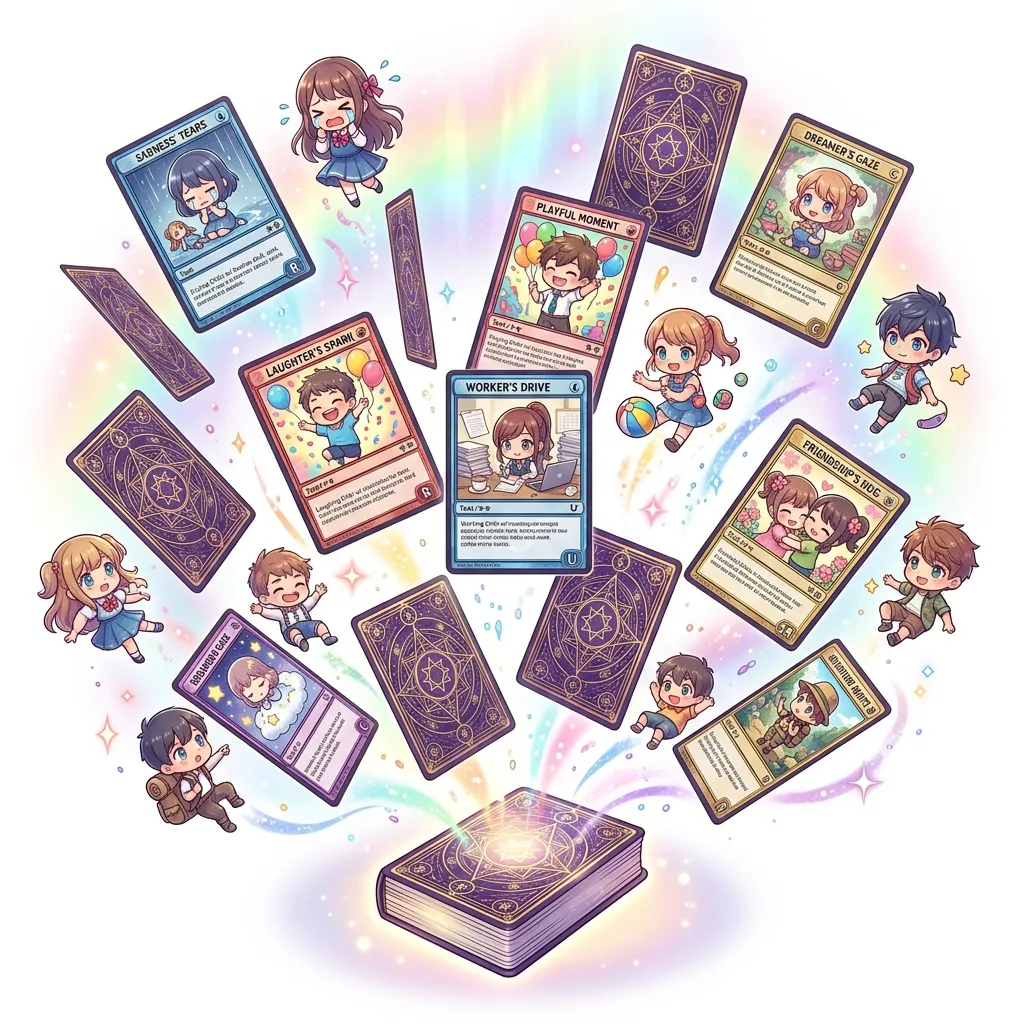
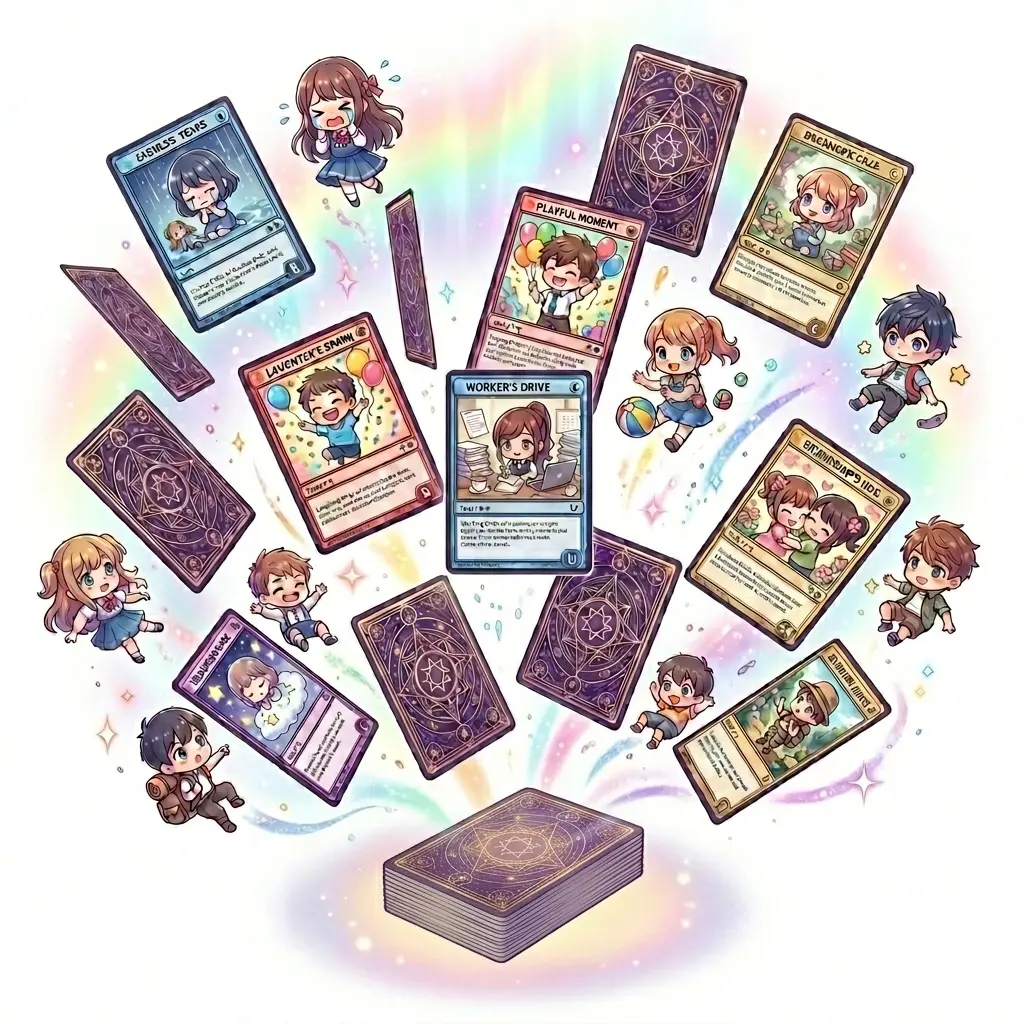
드로더라이프 이미지 교체

Changed region(s): [[0.0312, 0.0312, 0.9688, 0.9688], [0.2812, 0.0625, 0.4062, 0.1875]]

diff --git a/index.html b/index.html
@@ -15,7 +15,7 @@
     <meta property="og:url" content="https://eastfever.com">
     <meta property="og:title" content="EastFever">
     <meta property="og:description" content="Beyond Here, Another World - 이스트피버 앱 개발 공작소">
-    <meta property="og:image" content="https://eastfever.com/assets/og-image-final.webp?v=18">
+    <meta property="og:image" content="https://eastfever.com/assets/og-image-final.webp?v=19">
     <meta property="og:locale" content="ko_KR">
     
     <!-- Twitter Cards -->
@@ -23,7 +23,7 @@
     <meta name="twitter:url" content="https://eastfever.com">
     <meta name="twitter:title" content="EastFever">
     <meta name="twitter:description" content="Beyond Here, Another World - 이스트피버 앱 개발 공작소">
-    <meta name="twitter:image" content="https://eastfever.com/assets/og-image-final.webp?v=18">
+    <meta name="twitter:image" content="https://eastfever.com/assets/og-image-final.webp?v=19">
 
     <!-- Structured Data (JSON-LD) -->
     <script type="application/ld+json">
@@ -51,8 +51,8 @@
     <link href="https://fonts.googleapis.com/css2?family=Inter:wght@400;700&family=Noto+Sans+KR:wght@400;700&family=Noto+Sans+JP:wght@400;700&family=Outfit:wght@300;400;600&display=swap" rel="stylesheet">
     
     <!-- CSS -->
-    <link rel="stylesheet" href="css/style.css?v=18">
-    <link rel="stylesheet" href="css/mobile.css?v=18" media="screen and (max-width: 767px)">
+    <link rel="stylesheet" href="css/style.css?v=19">
+    <link rel="stylesheet" href="css/mobile.css?v=19" media="screen and (max-width: 767px)">
 </head>
 <body>
     <header id="header">
@@ -161,10 +161,10 @@
     </div>
 
     <!-- Scripts -->
-    <script src="js/data-loader.js?v=18"></script>
-    <script src="js/i18n.js?v=18"></script>
-    <script src="js/components.js?v=18"></script>
-    <script src="js/modal.js?v=18"></script>
-    <script src="js/main.js?v=18"></script>
+    <script src="js/data-loader.js?v=19"></script>
+    <script src="js/i18n.js?v=19"></script>
+    <script src="js/components.js?v=19"></script>
+    <script src="js/modal.js?v=19"></script>
+    <script src="js/main.js?v=19"></script>
 </body>
 </html>

diff --git a/post.html b/post.html
@@ -13,14 +13,14 @@
     <meta property="og:type" content="article">
     <meta property="og:title" content="Dev Story - EastFever">
     <meta property="og:description" content="이스트피버(EastFever)의 블로그 포스트입니다.">
-    <meta property="og:image" content="https://eastfever.com/assets/og-image-final.webp?v=18">
+    <meta property="og:image" content="https://eastfever.com/assets/og-image-final.webp?v=19">
     <meta property="og:locale" content="ko_KR">
 
     <!-- Twitter Cards -->
     <meta name="twitter:card" content="summary_large_image">
     <meta name="twitter:title" content="Dev Story - EastFever">
     <meta name="twitter:description" content="이스트피버(EastFever)의 블로그 포스트입니다.">
-    <meta name="twitter:image" content="https://eastfever.com/assets/og-image-final.webp?v=18">
+    <meta name="twitter:image" content="https://eastfever.com/assets/og-image-final.webp?v=19">
     
     <!-- Fonts -->
     <link rel="preconnect" href="https://fonts.googleapis.com">
@@ -28,9 +28,9 @@
     <link href="https://fonts.googleapis.com/css2?family=Inter:wght@400;700&family=Noto+Sans+KR:wght@400;700&family=Outfit:wght@300;400;600&display=swap" rel="stylesheet">
     
     <!-- CSS -->
-    <link rel="stylesheet" href="css/style.css?v=18">
-    <link rel="stylesheet" href="css/blog.css?v=18">
-    <link rel="stylesheet" href="css/mobile.css?v=18" media="screen and (max-width: 767px)">
+    <link rel="stylesheet" href="css/style.css?v=19">
+    <link rel="stylesheet" href="css/blog.css?v=19">
+    <link rel="stylesheet" href="css/mobile.css?v=19" media="screen and (max-width: 767px)">
 </head>
 <body>
     <header id="header">
@@ -96,8 +96,8 @@
     </footer>
 
     <!-- Scripts -->
-    <script src="js/data-loader.js?v=18"></script>
-    <script src="js/i18n.js?v=18"></script>
+    <script src="js/data-loader.js?v=19"></script>
+    <script src="js/i18n.js?v=19"></script>
     <script src="https://cdn.jsdelivr.net/npm/marked/marked.min.js"></script>
     <script>
         document.addEventListener('DOMContentLoaded', async () => {

diff --git a/about/index.html b/about/index.html
@@ -15,7 +15,7 @@
     <meta property="og:url" content="https://eastfever.com/about/">
     <meta property="og:title" content="About - EastFever">
     <meta property="og:description" content="안녕하세요. 이스트피버(EastFever) 앱 개발 공작소를 소개합니다.">
-    <meta property="og:image" content="https://eastfever.com/assets/og-image-final.webp?v=18">
+    <meta property="og:image" content="https://eastfever.com/assets/og-image-final.webp?v=19">
     <meta property="og:locale" content="ko_KR">
     
     <!-- Fonts -->
@@ -24,9 +24,9 @@
     <link href="https://fonts.googleapis.com/css2?family=Inter:wght@400;700&family=Noto+Sans+KR:wght@400;700&family=Outfit:wght@300;400;600&display=swap" rel="stylesheet">
     
     <!-- CSS -->
-    <link rel="stylesheet" href="../css/style.css?v=18">
-    <link rel="stylesheet" href="../css/blog.css?v=18">
-    <link rel="stylesheet" href="../css/mobile.css?v=18" media="screen and (max-width: 767px)">
+    <link rel="stylesheet" href="../css/style.css?v=19">
+    <link rel="stylesheet" href="../css/blog.css?v=19">
+    <link rel="stylesheet" href="../css/mobile.css?v=19" media="screen and (max-width: 767px)">
     <style>
         .about-container {
             max-width: 800px;
@@ -83,8 +83,8 @@
     </footer>
 
     <!-- Scripts -->
-    <script src="../js/data-loader.js?v=18"></script>
-    <script src="../js/i18n.js?v=18"></script>
+    <script src="../js/data-loader.js?v=19"></script>
+    <script src="../js/i18n.js?v=19"></script>
     <script src="https://cdn.jsdelivr.net/npm/marked/marked.min.js"></script>
     <script>
         document.addEventListener('DOMContentLoaded', async () => {

diff --git a/blog.html b/blog.html
@@ -16,7 +16,7 @@
     <meta property="og:url" content="https://eastfever.com/blog.html">
     <meta property="og:title" content="Dev Story - EastFever">
     <meta property="og:description" content="이스트피버(EastFever)의 개발 여정과 기술적 고민, 일상의 기록들을 담은 블로그입니다.">
-    <meta property="og:image" content="https://eastfever.com/assets/og-image-final.webp?v=18">
+    <meta property="og:image" content="https://eastfever.com/assets/og-image-final.webp?v=19">
     <meta property="og:locale" content="ko_KR">
 
     <!-- Fonts -->
@@ -27,9 +27,9 @@
         rel="stylesheet">
 
     <!-- CSS -->
-    <link rel="stylesheet" href="css/style.css?v=18">
-    <link rel="stylesheet" href="css/blog.css?v=18">
-    <link rel="stylesheet" href="css/mobile.css?v=18" media="screen and (max-width: 767px)">
+    <link rel="stylesheet" href="css/style.css?v=19">
+    <link rel="stylesheet" href="css/blog.css?v=19">
+    <link rel="stylesheet" href="css/mobile.css?v=19" media="screen and (max-width: 767px)">
 </head>
 
 <body>
@@ -92,9 +92,9 @@
     </footer>
 
     <!-- Scripts -->
-    <script src="js/data-loader.js?v=18"></script>
-    <script src="js/i18n.js?v=18"></script>
-    <script src="js/blog.js?v=18"></script>
+    <script src="js/data-loader.js?v=19"></script>
+    <script src="js/i18n.js?v=19"></script>
+    <script src="js/blog.js?v=19"></script>
     <script>
         // Initialize i18n
         document.addEventListener('DOMContentLoaded', async () => {

diff --git a/privacy.html b/privacy.html
@@ -16,9 +16,9 @@
     <link href="https://fonts.googleapis.com/css2?family=Inter:wght@400;700&family=Noto+Sans+KR:wght@400;700&family=Outfit:wght@300;400;600&display=swap" rel="stylesheet">
     
     <!-- CSS -->
-    <link rel="stylesheet" href="css/style.css?v=18">
-    <link rel="stylesheet" href="css/blog.css?v=18">
-    <link rel="stylesheet" href="css/mobile.css?v=18" media="screen and (max-width: 767px)">
+    <link rel="stylesheet" href="css/style.css?v=19">
+    <link rel="stylesheet" href="css/blog.css?v=19">
+    <link rel="stylesheet" href="css/mobile.css?v=19" media="screen and (max-width: 767px)">
     <style>
         .legal-container {
             max-width: 800px;
@@ -87,8 +87,8 @@
         </div>
     </footer>
     <!-- Scripts -->
-    <script src="js/data-loader.js?v=18"></script>
-    <script src="js/i18n.js?v=18"></script>
+    <script src="js/data-loader.js?v=19"></script>
+    <script src="js/i18n.js?v=19"></script>
     <script src="https://cdn.jsdelivr.net/npm/marked/marked.min.js"></script>
     <script>
         document.addEventListener('DOMContentLoaded', async () => {

diff --git a/terms.html b/terms.html
@@ -16,9 +16,9 @@
     <link href="https://fonts.googleapis.com/css2?family=Inter:wght@400;700&family=Noto+Sans+KR:wght@400;700&family=Outfit:wght@300;400;600&display=swap" rel="stylesheet">
     
     <!-- CSS -->
-    <link rel="stylesheet" href="css/style.css?v=18">
-    <link rel="stylesheet" href="css/blog.css?v=18">
-    <link rel="stylesheet" href="css/mobile.css?v=18" media="screen and (max-width: 767px)">
+    <link rel="stylesheet" href="css/style.css?v=19">
+    <link rel="stylesheet" href="css/blog.css?v=19">
+    <link rel="stylesheet" href="css/mobile.css?v=19" media="screen and (max-width: 767px)">
     <style>
         .legal-container {
             max-width: 800px;
@@ -86,8 +86,8 @@
         </div>
     </footer>
     <!-- Scripts -->
-    <script src="js/data-loader.js?v=18"></script>
-    <script src="js/i18n.js?v=18"></script>
+    <script src="js/data-loader.js?v=19"></script>
+    <script src="js/i18n.js?v=19"></script>
     <script src="https://cdn.jsdelivr.net/npm/marked/marked.min.js"></script>
     <script>
         document.addEventListener('DOMContentLoaded', async () => {

diff --git a/js/components.js b/js/components.js
@@ -80,7 +80,7 @@ class ComponentRenderer {
 
         div.innerHTML = `
             <div class="thumb-container">
-                <img src="${service.thumbnail}?v=18" alt="${service.name[lang]}" loading="lazy">
+                <img src="${service.thumbnail}?v=19" alt="${service.name[lang]}" loading="lazy">
             </div>
             <div class="card-content">
                 <div class="card-header">
